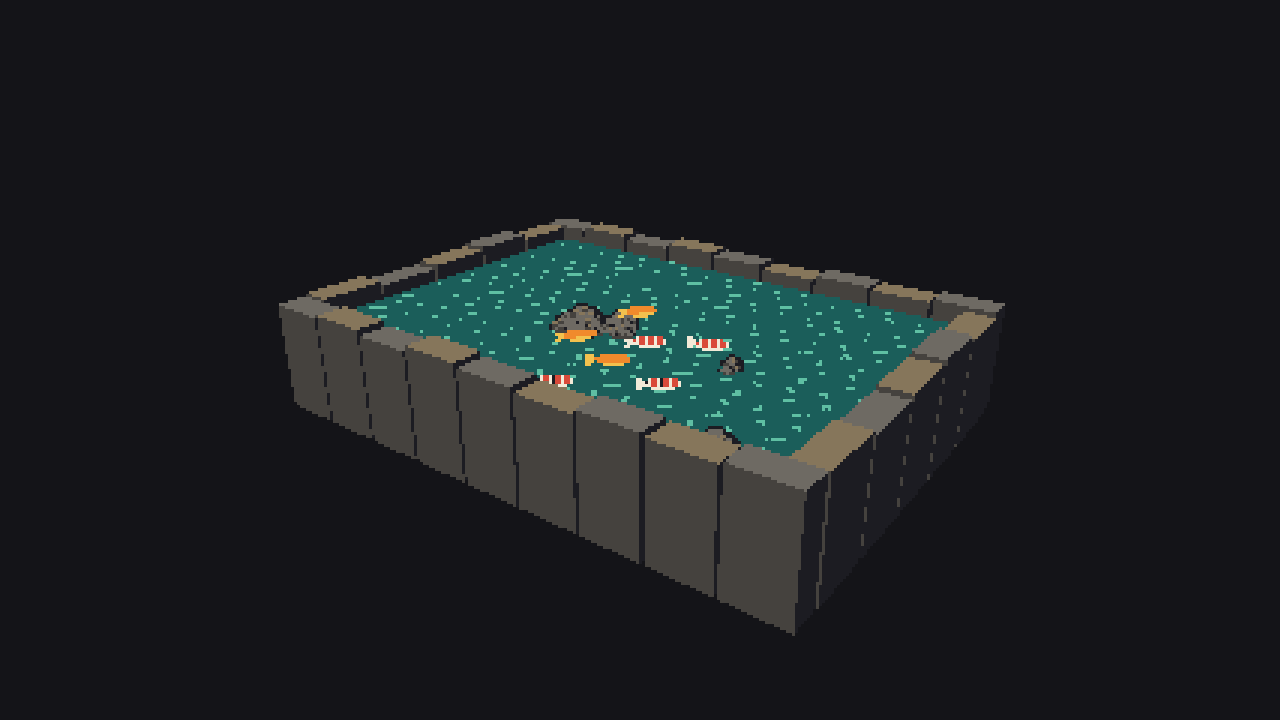
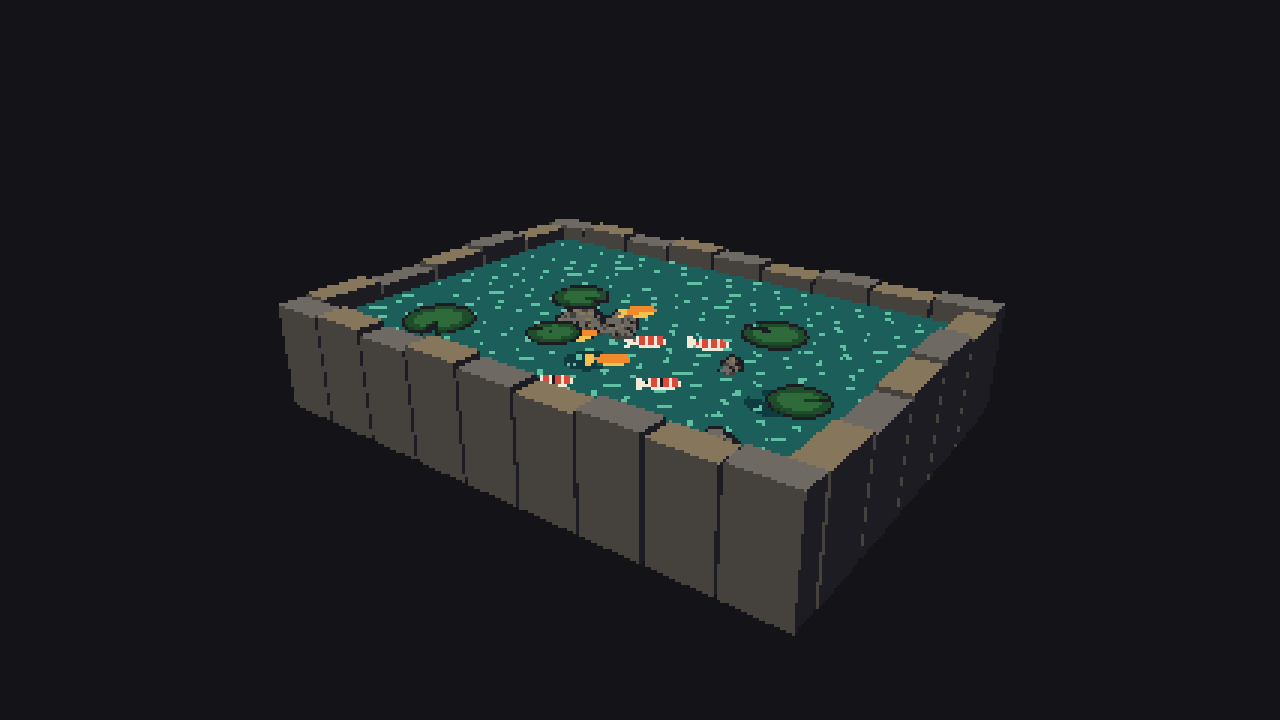
captures(c035): 5 angles

diff --git a/captures/latest/SOURCE.md b/captures/latest/SOURCE.md
@@ -1,7 +1,7 @@
-# Captures du cycle 34
-
-- Branche : cycle/c034-gabarit-panneaux
-- PR : #111
-- Commit : 9d75998
-- Graine : celle de `e2e/captures.spec.ts` (fixe) ; temps de capture fixes par angle
-- Comparaison avec c033 : 18 sur 19 identiques à l'octet ; seule `front-panneau.png` change (panneau « Commandes » resserré)
+# Captures du cycle 35
+- Branche : cycle/c035-nenuphars
+- PR : #113 (nénuphars flottants du bassin, #103)
+- Commit capturé : 23f34de
+- Graine : 42 (contrat de capture)
+- Temps : voir e2e/captures.spec.ts (temps simulé fixé par capture)
+- Différences avec la série précédente (c034) : bassin-top, bassin-three-quarter, bassin-three-quarter-minuit (nénuphars, attendu) ; front-panneau (non déterministe, connu). 15 autres identiques à l'octet.

diff --git a/captures/c035/SOURCE.md b/captures/c035/SOURCE.md
@@ -1,0 +1,7 @@
+# Captures du cycle 35
+- Branche : cycle/c035-nenuphars
+- PR : #113 (nénuphars flottants du bassin, #103)
+- Commit capturé : 23f34de
+- Graine : 42 (contrat de capture)
+- Temps : voir e2e/captures.spec.ts (temps simulé fixé par capture)
+- Différences avec la série précédente (c034) : bassin-top, bassin-three-quarter, bassin-three-quarter-minuit (nénuphars, attendu) ; front-panneau (non déterministe, connu). 15 autres identiques à l'octet.
